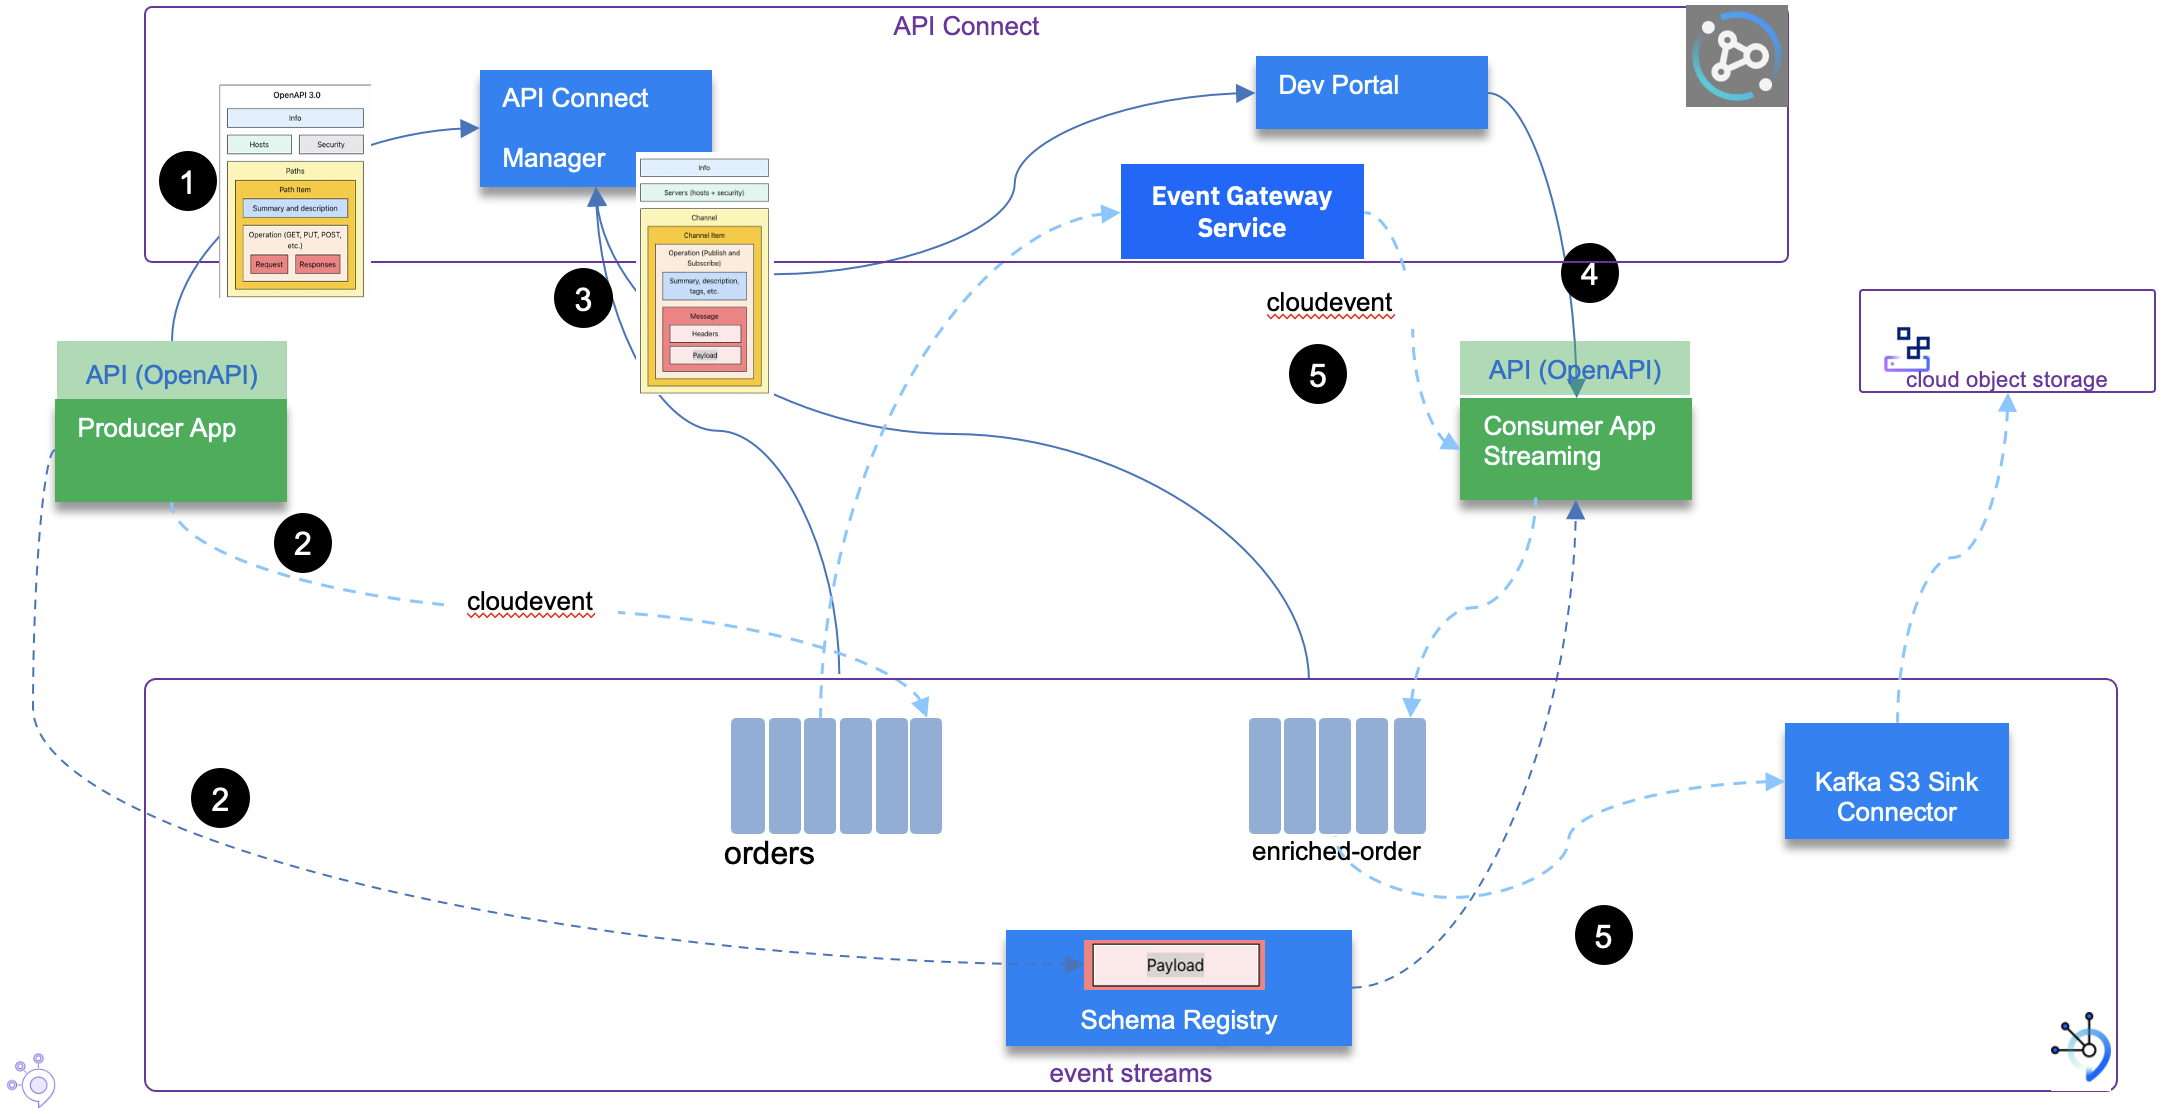
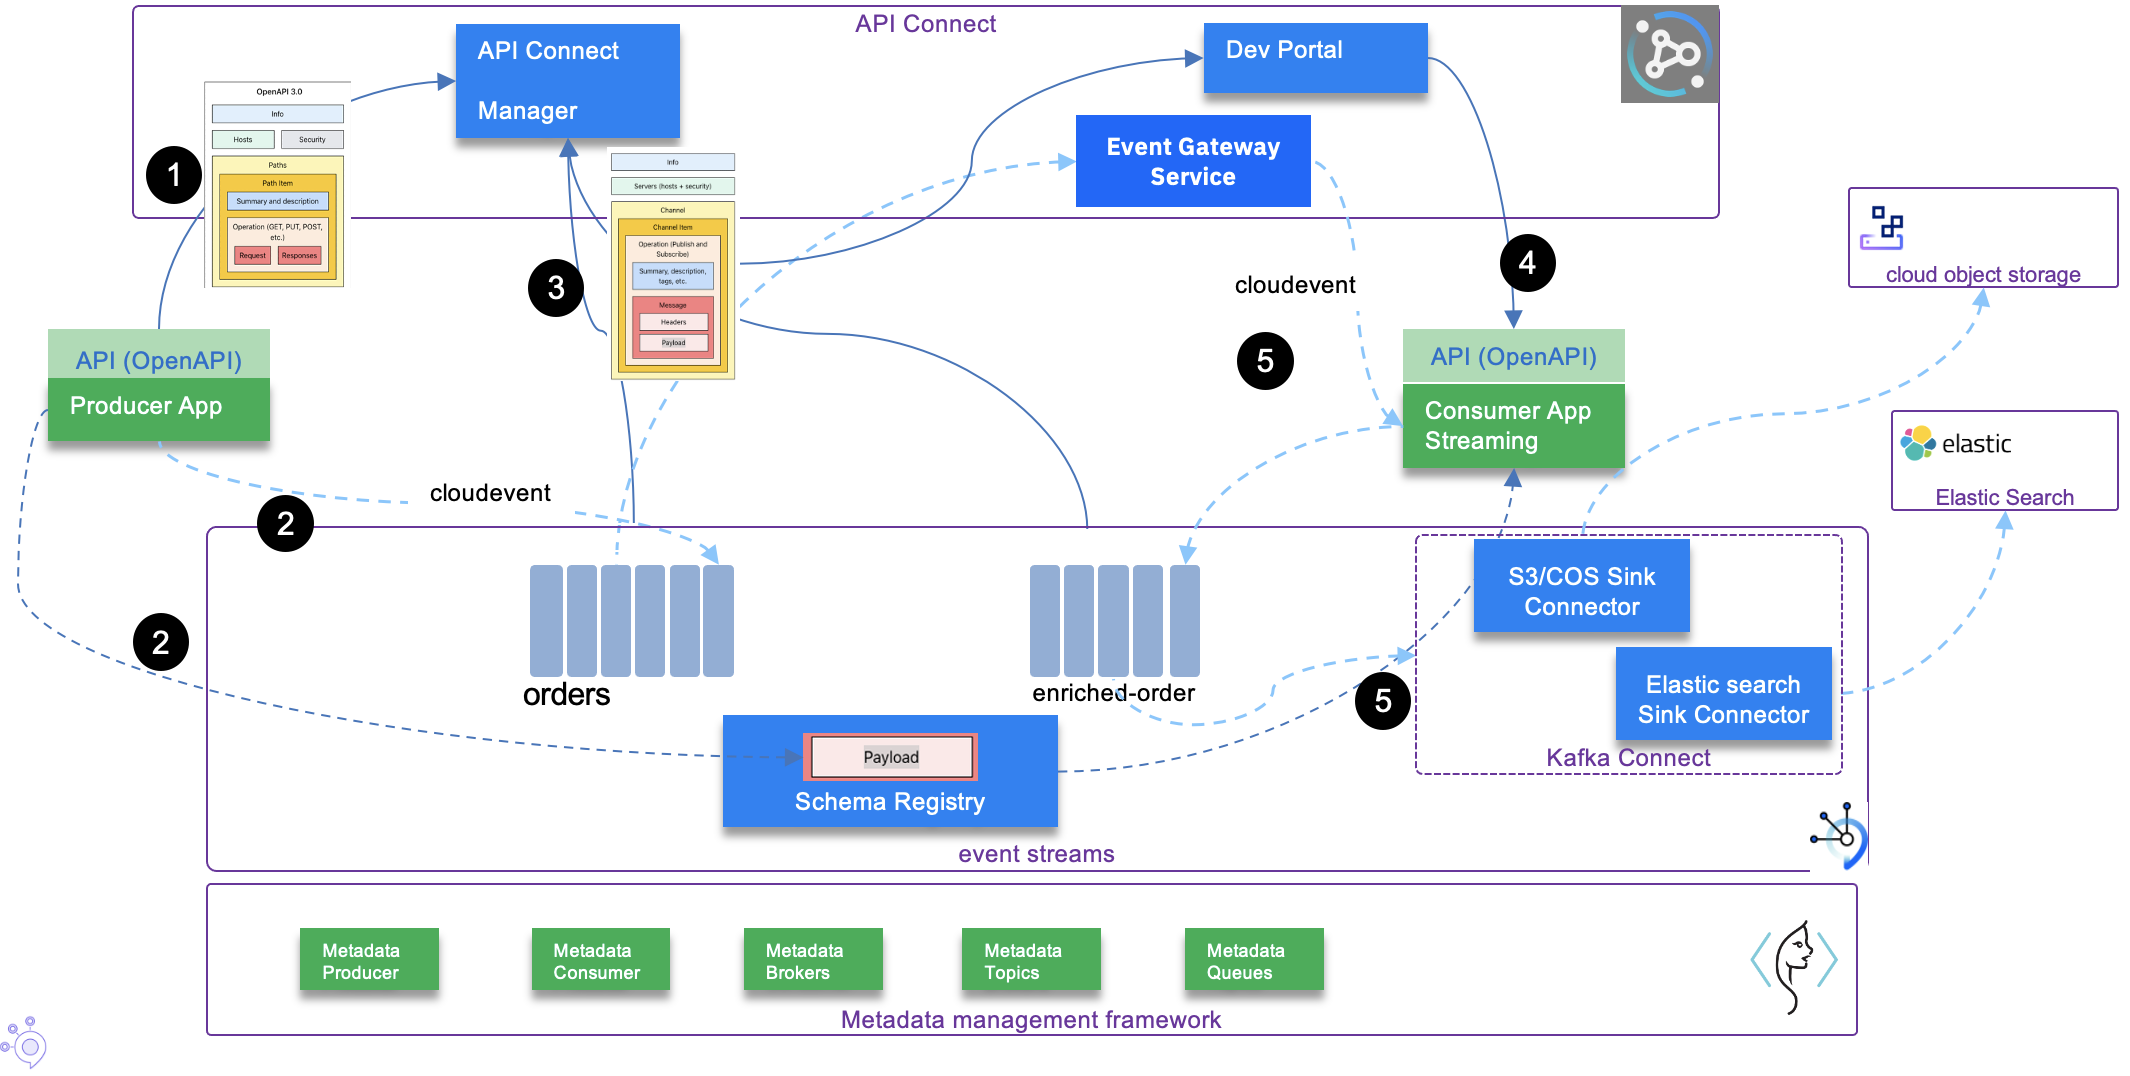
update to 1227 blog

diff --git a/docs/blogs/12-27-21/index.md b/docs/blogs/12-27-21/index.md
@@ -1,14 +1,14 @@
 # Developer experience for an event-driven solution
 
 Event-driven solutions are complex to implement, a lot of parts need to be considered, and I did 
-not find any article that goes into how to do things with the last technology available 
+not find any articles that goes into how to do things with the last technologies available 
 to us ('last' meaning November 2021). 
 
 I want to propose a set of articles to address this end-to-end developer's experience, not 
 fully in the perfect order of developer's activities, 
 as normally  we should start by event-storming workshop with the business subject matter experts 
 and apply Domain Driven Design approach, but with enough content, tools and practices to let
-you start your journey.
+you start your journey. 
 
 At the minimum level an event-driven solution will have producer applications, event brokers, 
 consumer applications for event processing and 
@@ -17,6 +17,16 @@ data and who is doing what in this distributed solution, we need to add schema r
 [OpenAPI](https://www.openapis.org/) and [AsyncAPI](https://www.asyncapi.com/) management complemented with metadata management. 
 
 So we have a lot to cover.
+
+* Part 1: is about reviewing the components to consider and getting started with GitOps to deploy all the components
+* Part 2: addresses producer code development with OpenAPI and AsyncAPI
+* Part 3: covers consumer code, starting from AsyncAPI and working with streaming. 
+
+---
+
+## Part 1: Event-driven solution component and getting started
+
+### Components view
 
 The following figure illustrates a minimum set of components, we will need to consider 
 in any event-driven solution:
@@ -33,6 +43,8 @@ process, and publish events.
 for Kafka binding.
 * Event end point gateway to control communication between consumers and kafka brokers 
 * S3 sink Kafka connector to move events for longer term storage like S3 buckets. We will use IBM cloud object storage.
+* Elastic Search sink Kafka connector to move events to indexing and searching component like Elastic Search.
+* Egeria as a metadata management framework to manage metadata about brokers, topics, producer, streaming and consumer apps.
 
 The numbered flows highlight :
 
@@ -51,10 +63,10 @@ portal of the API management. He downloads the asyncAPI (Step 4) and get the con
 1. When the application starts, it will consume from a topic, get the schema identifier
 from the record header and will download the schema definition from the schema registry (Step 5). 
 
-The application is using Kafka API / reactive messaging to access Kafka broker. But in fact the URL is proxied by
+The application is using Kafka API / reactive messaging to access Kafka brokers. But in fact the URL is proxied by
 the event gateway service. This event gateway can enforce traffic and access policies.
 
-## High level developer's tasks
+### High level developer's tasks
 
 So here is how I see the different high level developer tasks may look like:
 
@@ -78,7 +90,7 @@ In this article, I propose to reuse our reactive messaging Quarkus producer and 
 [the eda-quickstarts repository](https://github.com/ibm-cloud-architecture/eda-quickstarts). This is
 not a step-by-step tutorial, but more a see journey of developing and deploying a basic solution.
 
-## From Domain Driven Design...
+### From Domain Driven Design...
 
 In real life project, the journey starts from an [event storming](https://ibm-cloud-architecture.github.io/refarch-eda/methodology/event-storming/) workshop where architect, 
 Subject Matter Experts, analysts and developers work together
@@ -116,7 +128,7 @@ The old [Data Transfer Object pattern](https://www.baeldung.com/java-dto-pattern
 
 Events are defined with Avro schemas that are used in the messaging layer, schema registry, and AsyncAPI definition. 
 
-## ... To code repositories and GitOps
+### ... To code repositories and GitOps
 
 Developer starts to create a code repository in its preferred Software Configuration Manager, 
 I will use GitHub (See [this repo for the command order application microservice](https://github.com/jbcodeforce/eda-demo-order-ms)) code
@@ -154,14 +166,14 @@ we will need to create the following git repositories:
 
 * The Kafka connector configurations are in services in the GitOps repo.
 
-### Create the producer app code based
+#### Create the producer app  
 
 As we use Quarkus for our implementation of event-driven, reactive microservice we can use the `quarkus cli` to
 create the application. It will be too long to go over everything in this blog and 
 the subject is well covered in [Quarkus guides](https://quarkus.io/guides/). The [order management microservice](https://github.com/jbcodeforce/eda-demo-order-ms) readme
 file explains how the service was created.
 
-You can fork and clone this repo to try running this solution.
+You can fork and clone this repo to try running the producer code locally with `quarkus dev`.
 
 > The application created with quarkus CLI may be deployed to OpenShift, and Tekton pipeline
 can be defined to manage the continuous integration, as well as ArgoCD application can also be defined to
@@ -177,14 +189,14 @@ such elements:
 
 We will go over how to use and build those elements in next sections.
 
-## Environment Setup
+### Environment Setup
 
 From the GitOps, developers have to define the different target environment and how to build
 and deploy each applications. First let define Event Streams Cluster and API Connect end point management.
 
 We assume, you have access to an OpenShift 4.7 or newer version cluster, we used cluster version 4.8. Login to your cluster.
 
-### Install pre-requisites
+#### Install pre-requisites
 
 The first thing to do, is to install the different services / middleware operators, and then create one or more
 instance of those 'services'. I will combine Open Source and IBM products for this solution. 
@@ -199,198 +211,55 @@ See [the eda-gitops-catalog repository](https://github.com/ibm-cloud-architectur
 
 The GitOps repository for the solution will reuse the catalog.
 
-1. Clone the [Order GitOps repository](https://github.com/jbcodeforce/eda-order-gitops)
+* Clone the [Order GitOps repository](https://github.com/jbcodeforce/eda-order-gitops)
 
     ```sh
     git clone https://github.com/jbcodeforce/eda-order-gitops
     cd eda-order-gitops
     ```
 
-    Then to install the IBM Event Streams and bootstrap GitOps and Pipelines, follow the `how to use` explanations in the repository Readme.
+    Then bootstrap GitOps and Pipelines, and the different operators needed for the solution. See
+the `how to use` explanations in the repository Readme if you want to run it.
 
 
-1. If not already done, install [Quarkus CLI](https://quarkus.io/guides/cli-tooling)
+* If not already done, install [Quarkus CLI](https://quarkus.io/guides/cli-tooling)
 
     ```sh
     curl -Ls https://sh.jbang.dev | bash -s - app install --fresh --force quarkus@quarkusio
     ```
 
-1. Install [KAM](https://github.com/redhat-developer/kam/releases/latest) and put the downloaded binary into your `$PATH`
+* Install [KAM](https://github.com/redhat-developer/kam/releases/latest) and put the 
+downloaded binary into a folder of your `$PATH`
 
-1. If you are using an external image repository, get its secret to authenticate the `pipeline` service account 
+* If you are using an external image repository, get its secret to authenticate the `pipeline` service account 
 to push image on successful pipeline execution. For Quay.io see [this note](https://github.com/redhat-developer/kam/blob/master/docs/journey/day1/prerequisites/quay.md)
-on how to create a Robot Account with Write permission.
+on how to create a Robot Account with Write permission. Below is an example of robot account for quay.io:
 
     ![](./images/quay-robot.png)
 
-    download the Kubernetes Secret definition to be defined in your cicd project.
+Download the Kubernetes Secret definition to be defined in your cicd project.
 
     ![](./images/quay-k8s-secret.png)
 
+#### Environment up and running
 
-### Create foundation for the first microservice
-
-Using the new Quarkus CLI to create a basic project:
-
-```sh
-# Get the help
-quarkus create app --help
-# create a loan-origination bff app
-quarkus create app  -x openapi,metrics, ibm.gtm.dba:loan-origin-cmd-ms:1.0.0
-# Verify the app works
-cd loan-origin-cmd-ms
-quarkus dev
-curl localhost:8080
-```
-
-Push to a github repository that you need to create in github. I will use `loan-origin-cmd-ms.git`.
-
-```sh
-git init
-git commit -m "first commit"
-git branch -M main
-git remote add origin https://github.com/jbcodeforce/loan-origin-cmd-ms.git
-git push -u origin main
-```
-
-Be sure to have an Access Token defined in your github account so application can access your repositories.
-
-### Bootstrap GitOps
-
-1. Use kam cli to create the gitops project for our solution with reference to our first microservice
-
-    ```sh
-    kam bootstrap \
-    --service-repo-url https://github.com/jbcodeforce/loan-origin-cmd-ms \
-    --gitops-repo-url  https://github.com/jbcodeforce/loan-origin-gitops \
-    --image-repo quay.io/jbcodforce/loan-origin-cmd-ms \
-    --git-host-access-token <your-github-token> \
-    --prefix los --push-to-git=true
-    ```
-
-1. Add a `bootstrap` folder and define argoCD project descriptor. 
-See [this file, as one example of ArgoCD project](https://raw.githubusercontent.com/jbcodeforce/ads-risk-scoring-gitops/main/bootstrap/risk-scoring/argo-project.yaml) definition: the structure looks like below: 
-
-    ```yaml
-    apiVersion: argoproj.io/v1alpha1
-    kind: AppProject
-    metadata:
-    name: loan-origination
-    namespace: openshift-gitops
-    spec:
-    sourceRepos: []
-    destinations: []
-    roles: []
-    ```
-
-    ```sh
-    oc apply -k bootstrap/risk-scoring
-    ```
-
-1. Bootstrap the ArgoCD apps to deploy CI/CD and the different application's services
-
-    ```sh
-    oc apply -k config/argocd 
-    ```
-
-1. Get ArgoCD admin password and Console URL
-
-    ```sh
-    oc describe route openshift-gitops-server  -n openshift-gitops
-    oc extract secret/openshift-gitops-cluster -n openshift-gitops --to=-
-    ```
-
-1. deploy IBM Event Streams operator
-
-    ```sh
-    # In the eda-gitops-catalog project
-    oc apply -f ./cp4i-operators/common-services.yaml
-
-    oc apply -f ./cp4i-operators/event-streams/subscription.yaml   
-    ```
-
-
-1. [Optional] If you want to use Kafka open source uses the Strimzi operator
-
-    ```sh
-    # Install Strimzi Kafka Operator - It will listen to any namespaces
-    oc apply -k ./kafka-strimzi/operator/overlays/stable
-    ```
-    
-    Then install Apicurio Registry Operator. 
-
-    ```sh
-    oc apply -k apicurio/operator/overlays/stable
-    ```
-
-```sh
-# Install MQ Operator, which may also deploy IBM Cloud Pak foundational services 
-oc apply -f operators/mq/subscription.yaml
-# Verify installed operators
-oc get operators
-
-NAME                                               AGE
-apicurio-registry.openshift-operators              5m34s
-ibm-common-service-operator.openshift-operators    6m41s
-ibm-mq.openshift-operators                         8m10s
-ibm-namespace-scope-operator.ibm-common-services   4m47s
-ibm-odlm.ibm-common-services                       3m27s
-strimzi-kafka-operator.openshift-operators         7m38s
-```
-
-Once done we will create Kafka Cluster, a MQ broker for development, Apicurio
-
-#### Instances
-
-##### Kafka via Strimzi
-
-```sh
-# Create Kafka Cluster instance and a scram user and tls user
-oc apply -k  instances/strimzi-kafka/kustomization.yaml 
-# Verify Kafka cluster runs
-oc get kafka
-oc get kafkauser 
-```
-
-The SCRAM and TLS users are defined to get different ways to authenticate to Kafka. 
-For detail explanations on how Kafka authentication mechanism works, I recommend [reading Rick Osowski's article](https://rosowski.medium.com/kafka-security-fundamentals-the-rosetta-stone-to-your-event-streaming-infrastructure-518f49640db4).
-
-The installation of th Kafka Cluster has generated a set of secrets for TLS certificates, that we will need:
-
-```sh
-oc get secrets
-NAME                                        TYPE     
-eda-kafka-cluster-ca-cert                   Opaque
-...
-```
-
-##### IBM MQ
-
-```sh
-# Create an instance named QM1
-oc apply -f instances/mq/mq-qm1.yaml 
-# Verify and get the Console URL
-oc describe queuemanager qm1
-```
-
-## Develop the event-driven service
-
-I will focus on the way to prepare the different elements of the service to ensure keeping the coupling to the minimum.
-
-I will use [Quarkus](https://quarkus.io) to develop the Microprofile based services. I recommend to use the [quarkus CLI](https://quarkus.io/guides/cli-tooling)
-to start your project on good foundations:
-
-```sh
-quarkus create ibm.eda.demo:kc-freezer-cmd-ms:0.0.1 -x reactive-messaging-kafka,metrics,smallrye-openapi
-# Add needed extensions
-quarkus ext add qpid-jms, openshift
-```
+The GitOps repository define two namespaces to run the solution, one for development, one for staging. 
+The ArgoCD project includes the following applications:
 
 ### Defining the API from JAXRS Resource and OpenAPI annotation
 
+API can be defined top down with a Swagger UI or API Connect. Applying test driven development, we develop
+the business entities while implementing the requirements, and expose data transfer objects during integration
+tests. This leads to have the OpenAPI definition evolving over time before a specific synchronization point
+with the first consumers of the API. Contract testing is used too. 
+So having a bottom-up definition of the OpenAPI document makes a lot of sense in this context. Which
+means that we may export the OpenAPI document from code execution and then keep a first version in the
+project git repository under `src/main/apis` folder.
+
+
 ### Push the OpenAPI document to API management
 
-### 
+### Manage AsyncAPI from Kafka Topic
 
 ## Clean your gitops environment
 
@@ -399,4 +268,4 @@ quarkus ext add qpid-jms, openshift
 ## Related product documentation
 
 * [Cloud Native PostgreSQL Operator](https://docs.enterprisedb.io/cloud-native-postgresql/1.8.0/)
-* [Step by step quarkus app dev with pipeline and gitops](/bloggs/08-27-21/steps-to-dev-ms/)
+* [Step by step quarkus app dev with pipeline and gitops](/blogs/08-27-21/steps-to-dev-ms/)

diff --git a/docs/blogs/12-27-21/steps-to-dev-ms.md b/docs/blogs/12-27-21/steps-to-dev-ms.md
@@ -1,8 +1,5 @@
 # Steps to develop an event driven microservices
 
-With MQ, Kafka, Postgresql
-
-* Build quarkus app with: `quarkus create app  -x openapi,metrics,openshift,resteasy-reactive,resteasy-reactive-jackson ibm.gtm.dba:loan-origin-cmd-ms:1.0.0`
 * Add all needed extensions
 
   ```sh
